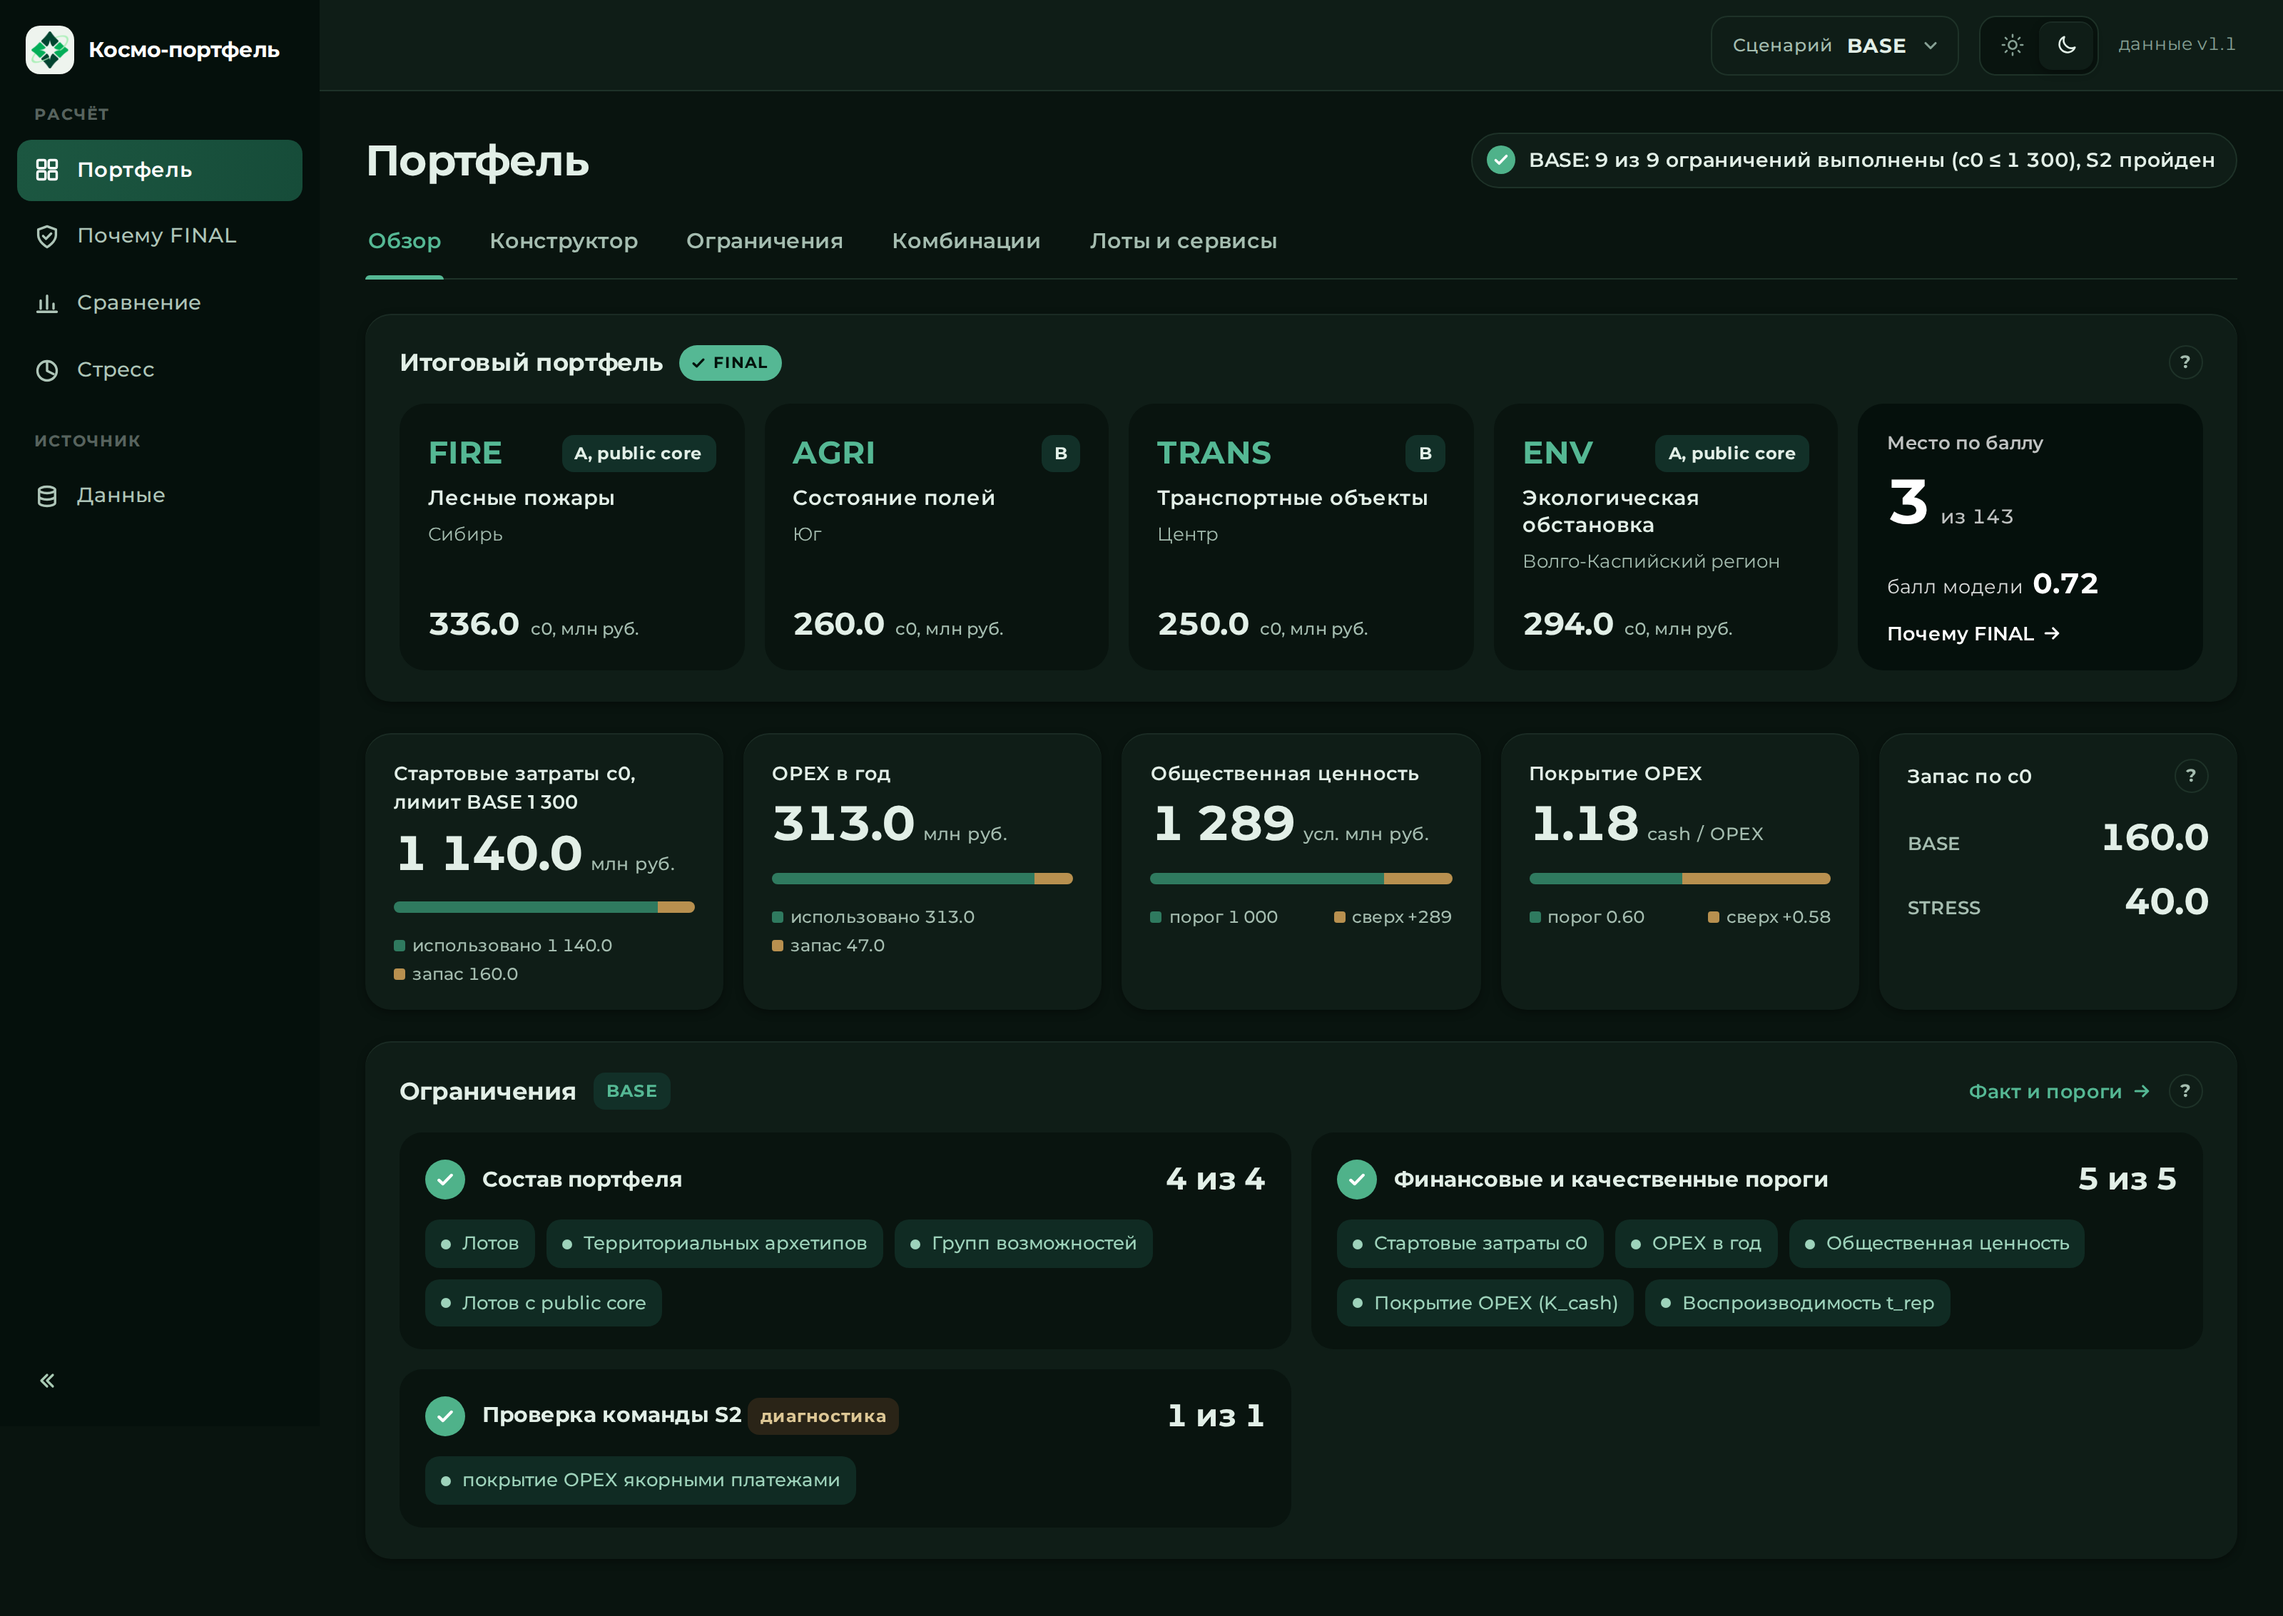
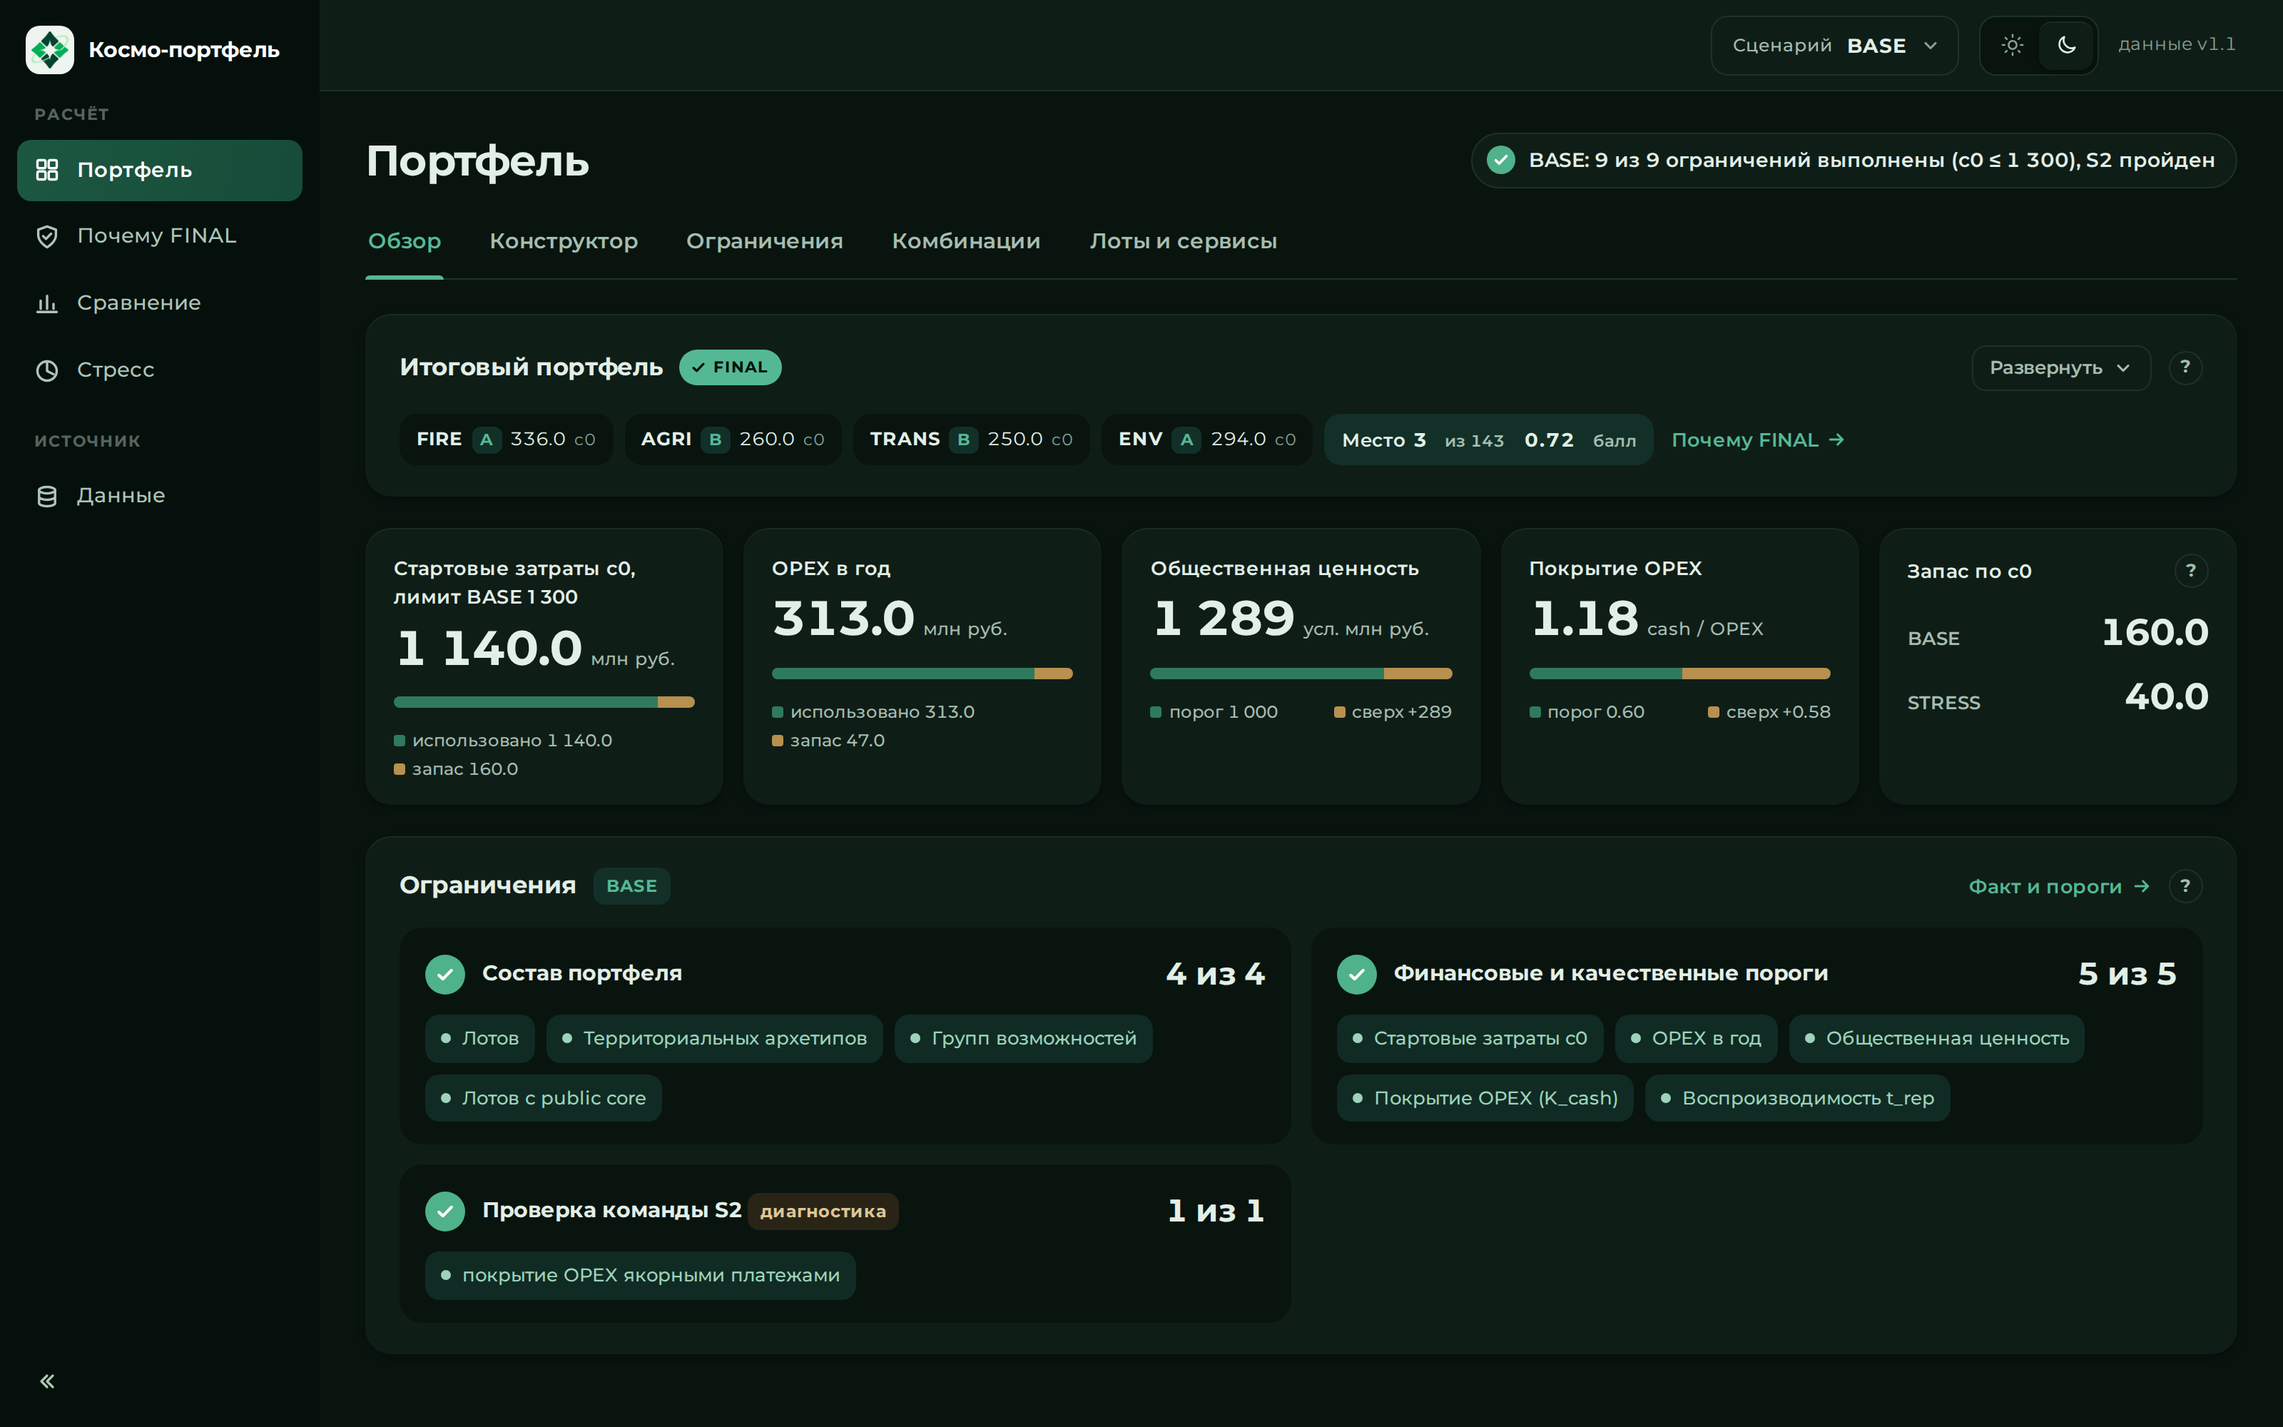
Fold the portfolio cards on the dashboard too and make the toggle a real button
На снимках было видно, что свёрнута только таблица показателей, а первый
экран по-прежнему занимали пять крупных карточек «Итогового портфеля» — то
самое место, где не хватало высоты. Теперь складываются оба блока:

- «Итоговый портфель» на вкладке «Обзор» по умолчанию свёрнут до строки
  «лот · режим · c0» с местом по баллу и ссылкой «Почему FINAL»; весь экран
  (портфель, пять плиток, сводка ограничений) помещается без прокрутки;
- переключатель перестал выглядеть ссылкой: это кнопка с рамкой и подписью
  «Развернуть» / «Свернуть», подпись и aria-label меняются по состоянию;
- состояние каждого блока своё (kp.fold.hero и kp.fold.lots) и живёт между
  сессиями; разворот анимирован, при prefers-reduced-motion анимации нет.

Снимки экранов пересняты, добавлен portfolio-open.png с развёрнутыми
карточками. Тесты: 390.

Claude-Session: https://claude.ai/code/session_01KH6fEFye5MQCjx5tVeXQtT

diff --git a/app/static/app.js b/app/static/app.js
@@ -76,6 +76,8 @@ const tag = (t, cls = '') => `<span class="tag${cls ? ' ' + cls : ''}">${esc(t)}
 // читался как пятый лот. Комбинации называются составом и режимами, а не версиями.
 const finBadge = () => `<span class="fin">${ICON.tick}FINAL</span>`;
 const isFinalId = (id) => id === state.data?.final;
+const foldOpen = (name) => !!state.fold[name];
+const foldT = (name, what) => `<span class="fold-t" role="button" tabindex="0" data-fold="${name}" aria-expanded="${foldOpen(name)}" aria-controls="fold-${name}" aria-label="${foldOpen(name) ? 'Свернуть' : 'Развернуть'}: ${esc(what)}">${foldOpen(name) ? 'Свернуть' : 'Развернуть'} ${ICON.chev}</span>`;
 const more = (tab, label, page = null) => `<a class="more" role="link" tabindex="0" data-tab="${tab}"${page ? ` data-page="${page}"` : ''}>${label} ${ICON.arrow}</a>`;
 
 // localStorage может быть недоступен (приватный режим, запрет cookies) — интерфейс работает и без памяти между сессиями
@@ -99,7 +101,8 @@ const state = {
   theme: document.documentElement.dataset.theme || 'light',
   dataset: null,
   gatesFilter: store.get('kp.gates') === '1',   // проверки команды S2 как фильтр ранжирования (только для исследования)
-  foldLots: store.get('kp.lots') === '1',       // развёрнута ли таблица «Лоты портфеля» (по умолчанию свёрнута)
+  // складные блоки: карточки лотов на обзоре и таблица показателей; по умолчанию свёрнуты
+  fold: { hero: store.get('kp.fold.hero') === '1', lots: store.get('kp.fold.lots') === '1' },
 };
 const curTab = (page = state.page) => state.tab[page] || TABS[page][0][0];
 function parseHash() {
@@ -247,7 +250,13 @@ ${tile('Покрытие OPEX', fmt(m.kcash, 2), 'cash / OPEX', Math.min(1, cons
         const all = gatesBad.length === 0;
         return `<div class="sum-it"><div class="sum-h"><span class="circ${all ? '' : ' bad'}">${all ? ICON.check : ICON.x}</span><span class="t">Проверка команды S2 <span class="tag warn">диагностика</span></span><span class="n">${gates.length - gatesBad.length} из ${gates.length}</span></div><div class="sum-l">${gates.map((g) => `<span class="${g.ok ? '' : 'bad'}"><i></i>${esc(gateName(g))}${g.ok ? '' : ', ' + esc(gateFailText(g))}</span>`).join('')}</div></div>`;
       };
-      return `<div class="card"><h2>${isFinal() ? 'Итоговый портфель' : 'Показанный портфель'} ${portfolioTag()}${help(helpHero)}</h2><div class="hero">${lotCards}${score}</div></div>
+      // Пять крупных карточек занимали половину первого экрана: по умолчанию они свёрнуты
+      // до строки «лот · режим · c0» с местом по баллу, разворачиваются кнопкой.
+      const heroSum = `<div class="fold-sum">${s.per_lot.map((r) => `<span class="fl"><b>${esc(r.lot)}</b><i>${esc(r.mode)}</i>${fmt(r.c0)}<small>c0</small></span>`).join('')}
+<span class="fl tt">Место<b>${s.rank ?? '—'}</b><em>из ${t.ranked}</em><b>${s.score.toFixed(2)}</b><em>балл</em></span>${more('decision', 'Почему FINAL', 'why')}</div>`;
+      return `<div class="card fold${foldOpen('hero') ? ' open' : ''}"><h2>${isFinal() ? 'Итоговый портфель' : 'Показанный портфель'} ${portfolioTag()}${foldT('hero', 'карточки лотов')}${help(helpHero)}</h2>
+${heroSum}
+<div class="fold-b" id="fold-hero"><div class="fold-in"><div class="hero">${lotCards}${score}</div></div></div></div>
 ${tiles}
 <div class="card"><h2>Ограничения ${tag(sc)}${more('checks', 'Факт и пороги')}${help(helpChecks)}</h2><div class="sum">${grp('Состав портфеля', COMPOSITION)}${grp('Финансовые и качественные пороги', THRESHOLDS)}${grpGates()}</div></div>`;
     },
@@ -356,9 +365,9 @@ ${bad.length ? `<ul class="res-f">${bad.map((r) => `<li>${esc(failText(r))}</li>
       // «лот · режим · c0» и итога, разворачивается по кнопке (класс на карточке, без перерисовки).
       const sumLots = `<div class="fold-sum">${s.per_lot.map((r) => `<span class="fl"><b>${esc(r.lot)}</b><i>${esc(r.mode)}</i>${fmt(r.c0)}<small>c0</small></span>`).join('')}
 <span class="fl tt">Портфель${[['c0', fmt(m.c0)], ['OPEX', fmt(m.opex, 2)], ['ценность', fmt(m.vpub)], ['cash', fmt(m.cash, 2)]].map(([k, v]) => `<em>${k}</em><b>${v}</b>`).join('')}</span></div>`;
-      return `<div class="card fold${state.foldLots ? ' open' : ''}"><h2>Лоты портфеля ${portfolioTag()}<span class="fold-t more" role="button" tabindex="0" aria-expanded="${!!state.foldLots}" aria-controls="lots-full">${state.foldLots ? 'Свернуть' : 'Все показатели'} ${ICON.chev}</span>${help(helpLots)}</h2>
+      return `<div class="card fold${foldOpen('lots') ? ' open' : ''}"><h2>Лоты портфеля ${portfolioTag()}${foldT('lots', 'таблица всех показателей')}${help(helpLots)}</h2>
 ${sumLots}
-<div class="fold-b" id="lots-full"><div class="fold-in">
+<div class="fold-b" id="fold-lots"><div class="fold-in">
 <div class="tw wide"><table><tr><th>Лот</th><th>Режим</th><th class="num">c0</th><th class="num">OPEX</th><th class="num">Ценность</th><th class="num">Cash</th><th class="num">t_rep</th><th class="num">Готовность</th><th class="num">Устойчивость</th><th class="num">Тираж</th></tr>
 ${s.per_lot.map(lotRow).join('')}
 <tr class="total"><td>Портфель</td><td></td><td class="num">${fmt(m.c0)}</td><td class="num">${fmt(m.opex, 2)}</td><td class="num">${fmt(m.vpub)}</td><td class="num">${fmt(m.cash, 2)}</td><td class="num">${fmt(m.t_rep, 3)}</td><td class="num">${fmt(m.readiness, 2)}</td><td class="num">${fmt(m.resilience, 2)}</td><td class="num">${fmt(m.scale, 2)}</td></tr></table></div></div></div></div>
@@ -849,11 +858,13 @@ document.addEventListener('click', async (e) => {
   if (th) { setTheme(th.dataset.theme, th); return; }
   const fold = e.target.closest('.fold-t');
   if (fold) {
-    const card = fold.closest('.fold'), open = !card.classList.contains('open');
+    // класс на карточке, без перерисовки: иначе анимации разворота не видно
+    const name = fold.dataset.fold, card = fold.closest('.fold'), open = !card.classList.contains('open');
     card.classList.toggle('open', open);
     fold.setAttribute('aria-expanded', String(open));
-    fold.firstChild.textContent = open ? 'Свернуть ' : 'Все показатели ';
-    state.foldLots = open; store.set('kp.lots', open ? '1' : '0');
+    fold.setAttribute('aria-label', `${open ? 'Свернуть' : 'Развернуть'}: ${fold.getAttribute('aria-label').split(': ').slice(1).join(': ')}`);
+    fold.firstChild.textContent = open ? 'Свернуть ' : 'Развернуть ';
+    state.fold[name] = open; store.set(`kp.fold.${name}`, open ? '1' : '0');
     return;
   }
   if (e.target.closest('#collapse')) { state.collapsed = !state.collapsed; store.set('kp.collapsed', state.collapsed ? '1' : '0'); $('#shell').classList.toggle('collapsed', state.collapsed); return; }

diff --git a/app/static/styles.css b/app/static/styles.css
@@ -366,9 +366,11 @@ table.bs b.neg{color:var(--crit)}
 table.alts td .sub{max-width:520px}
 .alt-h{display:flex;align-items:center;gap:4px;flex-wrap:wrap}
 /* складная карточка: компактная строка вместо большой таблицы, разворот по кнопке */
-.card.fold h2 .fold-t{margin-left:auto;cursor:pointer;user-select:none}
+/* кнопка разворота: видимый элемент управления, а не ссылка — иначе её не находят глазами */
+.card.fold h2 .fold-t{margin-left:auto;display:inline-flex;align-items:center;gap:7px;height:32px;padding:0 12px;border:1px solid var(--rule);border-radius:10px;background:var(--surface);color:var(--ink-2);font-family:var(--f-ui);font-size:13px;font-weight:600;white-space:nowrap;cursor:pointer;user-select:none}
+.card.fold h2 .fold-t:hover{border-color:var(--brand);color:var(--brand);background:var(--brand-soft)}
 .card.fold h2 .fold-t+.help{margin-left:0}
-.card.fold h2 .fold-t svg{transition:transform .2s ease}
+.card.fold h2 .fold-t svg{width:14px;height:14px;transition:transform .2s ease}
 .card.fold.open h2 .fold-t svg{transform:rotate(180deg)}
 .fold-sum{display:flex;flex-wrap:wrap;gap:8px;align-items:center}
 .card.fold.open .fold-sum{display:none}
@@ -378,6 +380,8 @@ table.alts td .sub{max-width:520px}
 .fl small{font-size:11.5px;color:var(--muted)}
 .fl.tt{background:var(--brand-soft);font-weight:600;color:var(--ink)}
 .fl.tt em{font-style:normal;font-size:11.5px;color:var(--ink-2);margin-left:6px}
+.fl.tt em+b{margin-left:8px}
+.fold-sum .more{margin-left:4px}
 .fl.tt b{font-family:var(--f-num);font-size:13.5px}
 /* разворот: grid-template-rows 0fr → 1fr анимируется без фиксированной высоты */
 .fold-b{display:grid;grid-template-rows:0fr;transition:grid-template-rows .3s cubic-bezier(.4,0,.2,1)}
